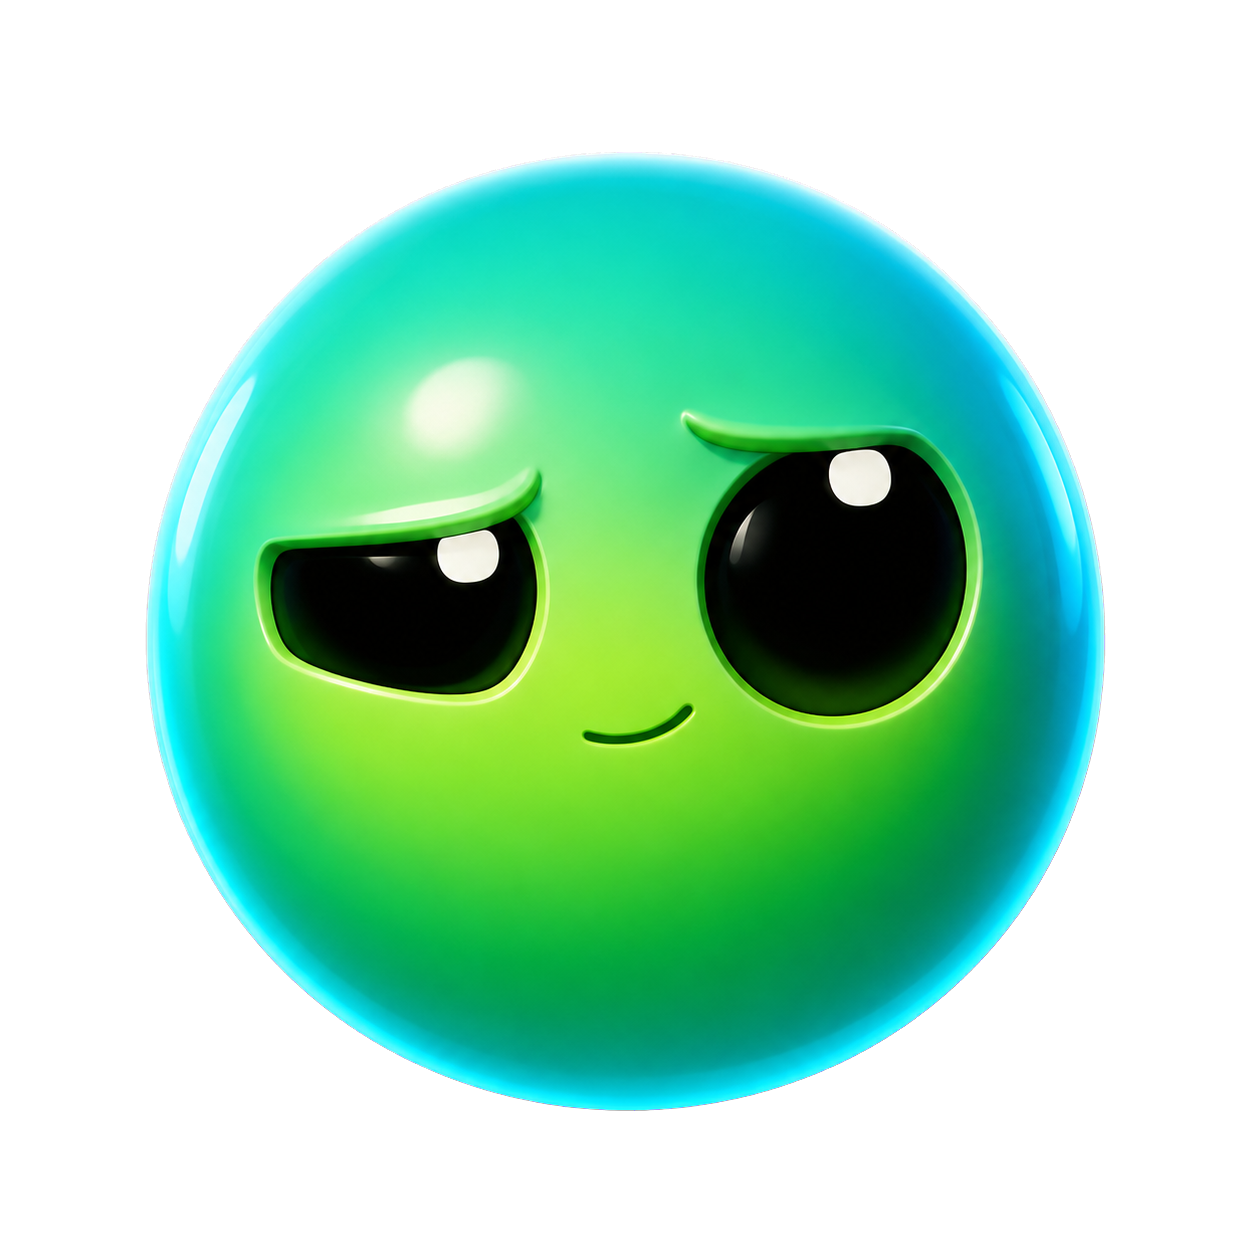
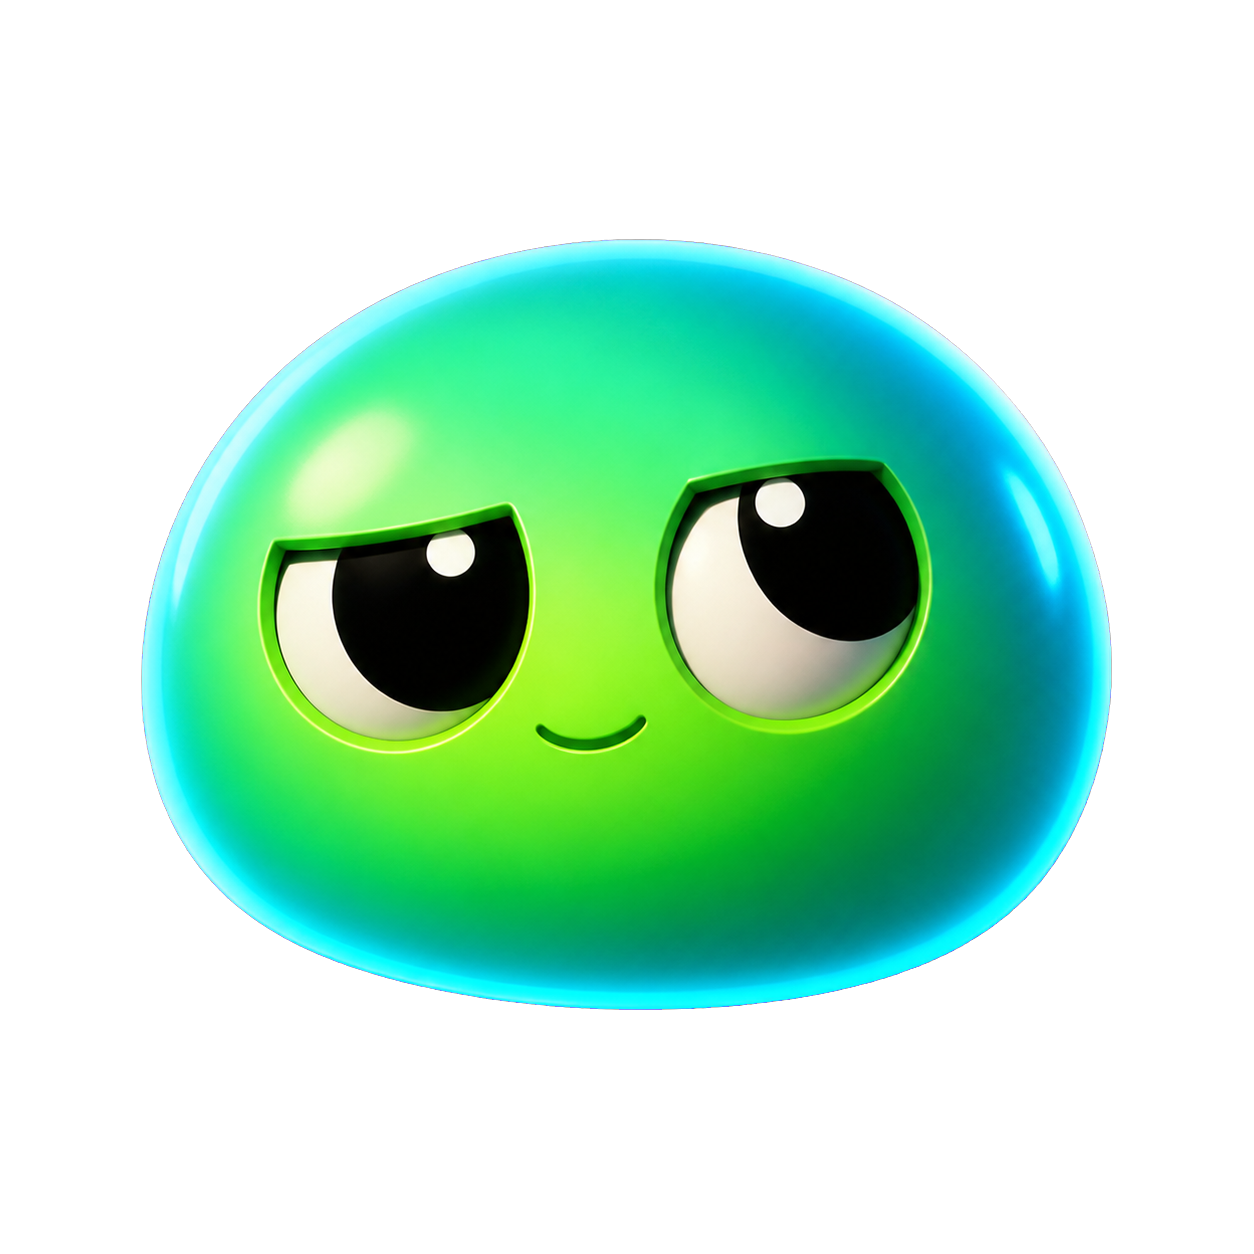
feat: release widget v0.2.3

diff --git a/src/renderer/styles.css b/src/renderer/styles.css
@@ -1,3 +1,8 @@
+@property --orb-ring-primary { syntax:"<color>"; inherits:true; initial-value:#49e7c6; }
+@property --orb-ring-secondary { syntax:"<color>"; inherits:true; initial-value:#8b79ff; }
+@property --orb-halo-primary { syntax:"<color>"; inherits:true; initial-value:rgba(73,231,198,.27); }
+@property --orb-halo-secondary { syntax:"<color>"; inherits:true; initial-value:rgba(139,121,255,.17); }
+
 :root {
   color-scheme: dark;
   font-family: Inter, "Segoe UI Variable", "Segoe UI", sans-serif;
@@ -13,6 +18,11 @@
   --danger: #ff738f;
   --control: 38px;
   --chat-glow-intensity: .82;
+  --orb-ring-primary:#49e7c6;
+  --orb-ring-secondary:#8b79ff;
+  --orb-halo-primary:rgba(73,231,198,.27);
+  --orb-halo-secondary:rgba(139,121,255,.17);
+  --orb-ring-opacity:.68;
 }
 
 * { box-sizing: border-box; }
@@ -56,7 +66,9 @@ button:not(.edge-mode):not(.orb-mode):active { transform:scale(.93); transition-
 
 .titlebar, .brand, .window-actions, .settings-head { display:flex; align-items:center; }
 .titlebar { min-height:44px; justify-content:space-between; gap:7px; }
-.brand { min-width:0; gap:10px; }
+.brand { min-width:0; gap:10px; cursor:grab; touch-action:none; user-select:none; -webkit-user-select:none; -webkit-user-drag:none; }
+.brand:active { cursor:grabbing; }
+.brand *, .brand-copy-button * { user-select:none; -webkit-user-select:none; -webkit-user-drag:none; }
 .avatar-button, .brand-copy-button { flex:none; margin:0; padding:0; border:0; background:transparent; color:inherit; cursor:pointer; }
 .avatar-button { border-radius:15px; }
 .brand-copy-button { min-width:0; display:flex; flex:1; flex-direction:column; align-items:flex-start; text-align:left; }
@@ -193,13 +205,13 @@ button:not(.edge-mode):not(.orb-mode):active { transform:scale(.93); transition-
 .mode-option.active { background:linear-gradient(135deg,rgba(73,231,198,.14),rgba(139,121,255,.15)); color:white; box-shadow:inset 0 1px rgba(255,255,255,.08); }
 
 .context-meter { position:relative; width:40px; height:40px; display:grid; place-items:center; }
-.context-meter svg { position:absolute; inset:2px; width:36px; height:36px; transform:rotate(-90deg); }
+.context-meter svg { position:absolute; top:50%; left:50%; width:36px; height:36px; transform:translate(-50%,-50%) rotate(-90deg); }
 .context-meter circle { fill:none; stroke-width:2.2; }
 .context-track { stroke:rgba(255,255,255,.09); }
 .context-arc { stroke:var(--mint); stroke-linecap:round; stroke-dasharray:97.39; transition:stroke-dashoffset .35s ease, stroke .25s ease; filter:drop-shadow(0 0 4px rgba(73,231,198,.55)); }
 .context-meter.high .context-arc { stroke:#ffca72; }
 .context-meter.critical .context-arc { stroke:var(--danger); }
-.context-meter span { position:relative; font-size:7px; font-weight:850; color:#d6dde7; }
+.context-meter span { position:absolute; inset:0; display:grid; place-items:center; padding:0; color:#d6dde7; font-size:7px; font-weight:850; font-variant-numeric:tabular-nums; line-height:1; text-align:center; }
 .command-menu { display:none; min-height:0; max-height:min(190px,36vh); flex:none; overflow:hidden; border:1px solid rgba(139,121,255,.27); border-radius:13px; background:rgba(13,17,27,.985); box-shadow:0 15px 38px rgba(0,0,0,.42),inset 0 1px rgba(255,255,255,.035); }
 .command-menu.open { display:flex; flex-direction:column; animation:command-menu-in .18s cubic-bezier(.22,1,.36,1); }
 .command-menu-head { min-height:34px; flex:none; display:flex; align-items:center; gap:7px; padding:7px 10px; border-bottom:1px solid rgba(255,255,255,.07); color:#8f9caf; }
@@ -384,11 +396,17 @@ button:not(.edge-mode):not(.orb-mode):active { transform:scale(.93); transition-
 .mode-orb .orb-mode, .mode-edge .edge-mode { touch-action:none; cursor:grab; }
 .mode-orb .orb-mode:active, .mode-edge .edge-mode:active { cursor:grabbing; }
 .orb-mode img, .orb-mode .orb-glow, .orb-mode .orb-count, .edge-mode > span { pointer-events:none; user-select:none; -webkit-user-drag:none; }
-.orb-avatar { position:relative; isolation:isolate; width:68px; height:68px; flex:none; display:grid; place-items:center; margin:30px; padding:0; border:0; border-radius:50%; background:radial-gradient(circle at 35% 25%,rgba(73,231,198,.25),rgba(11,14,22,.97) 64%); box-shadow:0 0 20px rgba(73,231,198,.27),0 0 28px rgba(139,121,255,.17),inset 0 0 15px rgba(73,231,198,.1); cursor:pointer; }
-.orb-avatar::before { content:""; position:absolute; z-index:0; inset:-4px; border-radius:50%; background:conic-gradient(from 20deg,rgba(73,231,198,.72),rgba(139,121,255,.38),rgba(73,231,198,.72)); filter:blur(9px); opacity:.46; animation:avatar-ring 3.4s linear infinite; }
+.orb-avatar { position:relative; isolation:isolate; width:68px; height:68px; flex:none; display:grid; place-items:center; margin:30px; padding:0; border:0; border-radius:50%; background:radial-gradient(circle at 35% 25%,color-mix(in srgb,var(--orb-ring-primary) 25%,transparent),rgba(11,14,22,.97) 64%); box-shadow:0 0 20px var(--orb-halo-primary),0 0 28px var(--orb-halo-secondary),inset 0 0 15px color-mix(in srgb,var(--orb-ring-primary) 10%,transparent); cursor:pointer; transition:--orb-ring-primary .58s ease,--orb-ring-secondary .58s ease,--orb-halo-primary .58s ease,--orb-halo-secondary .58s ease,box-shadow .58s ease; }
+.orb-avatar::before { content:""; position:absolute; z-index:0; inset:-4px; border-radius:50%; background:conic-gradient(from 20deg,color-mix(in srgb,var(--orb-ring-primary) 72%,transparent),color-mix(in srgb,var(--orb-ring-secondary) 38%,transparent),color-mix(in srgb,var(--orb-ring-primary) 72%,transparent)); filter:blur(9px); opacity:calc(var(--orb-ring-opacity) * .56); animation:avatar-ring 3.4s linear infinite; transition:--orb-ring-primary .58s ease,--orb-ring-secondary .58s ease,opacity .58s ease; }
 .orb-avatar img { position:relative; z-index:3; width:52px; height:52px; object-fit:contain; filter:drop-shadow(0 7px 10px rgba(0,0,0,.52)); animation:avatar-breathe 3.2s ease-in-out infinite; }
-.orb-glow { position:absolute; z-index:2; inset:2px; border-radius:50%; background:conic-gradient(from 0deg,var(--mint),var(--violet),var(--mint)); box-shadow:0 0 9px rgba(73,231,198,.38); opacity:.82; animation:avatar-ring 2s linear infinite; }
+.orb-glow { position:absolute; z-index:2; inset:2px; border-radius:50%; background:conic-gradient(from 0deg,var(--orb-ring-primary),var(--orb-ring-secondary),var(--orb-ring-primary)); box-shadow:0 0 9px var(--orb-halo-primary); opacity:var(--orb-ring-opacity); animation:avatar-ring 2s linear infinite; transition:--orb-ring-primary .58s ease,--orb-ring-secondary .58s ease,--orb-halo-primary .58s ease,box-shadow .58s ease,opacity .58s ease; }
 .orb-glow::after { content:""; position:absolute; inset:2px; border-radius:50%; background:#0b0e16; box-shadow:inset 0 0 14px rgba(139,121,255,.12); }
+.mode-orb.activity-thinking { --orb-ring-primary:#9b8cff; --orb-ring-secondary:#5274ff; --orb-halo-primary:rgba(139,121,255,.36); --orb-halo-secondary:rgba(82,116,255,.22); --orb-ring-opacity:.82; }
+.mode-orb.activity-writing { --orb-ring-primary:#49e7c6; --orb-ring-secondary:#48c1ff; --orb-halo-primary:rgba(73,231,198,.4); --orb-halo-secondary:rgba(72,193,255,.22); --orb-ring-opacity:.88; }
+.mode-orb.activity-tool { --orb-ring-primary:#ffbd69; --orb-ring-secondary:#9a7fff; --orb-halo-primary:rgba(255,189,105,.38); --orb-halo-secondary:rgba(139,121,255,.25); --orb-ring-opacity:.9; }
+.mode-orb.state-waiting { --orb-ring-primary:#74d8ff; --orb-ring-secondary:#8b79ff; --orb-halo-primary:rgba(116,216,255,.3); --orb-halo-secondary:rgba(139,121,255,.2); --orb-ring-opacity:.72; }
+.mode-orb.state-error { --orb-ring-primary:#ff738f; --orb-ring-secondary:#ff4f78; --orb-halo-primary:rgba(255,115,143,.4); --orb-halo-secondary:rgba(255,79,120,.22); --orb-ring-opacity:.88; }
+.mode-orb.state-done { --orb-ring-primary:#79f0b7; --orb-ring-secondary:#49e7c6; --orb-halo-primary:rgba(121,240,183,.34); --orb-halo-secondary:rgba(73,231,198,.18); --orb-ring-opacity:.78; }
 .orb-status { min-width:0; width:0; height:64px; display:flex; flex-direction:column; justify-content:center; overflow:hidden; padding:0; border:0 solid rgba(255,255,255,.12); border-radius:17px; background:rgba(12,16,24,.97); color:inherit; opacity:0; transform:translateX(12px) scale(.95); transition:width .22s cubic-bezier(.22,1,.36,1),padding .22s ease,opacity .16s ease,transform .22s cubic-bezier(.22,1,.36,1); cursor:pointer; }
 .orb-status:disabled { cursor:default; }
 .orb-has-status .orb-status { width:196px; padding:0 12px; border-width:1px; opacity:1; transform:none; }
@@ -403,9 +421,11 @@ button:not(.edge-mode):not(.orb-mode):active { transform:scale(.93); transition-
 .orb-count { position:absolute; z-index:3; top:4px; right:3px; min-width:20px; height:20px; display:none; place-items:center; padding:0 5px; border:2px solid #0b0e16; border-radius:11px; background:var(--mint); color:#06100e; font-size:9px; font-weight:900; }
 .orb-count.visible { display:grid; animation:avatar-pop .55s cubic-bezier(.2,.9,.2,1); }
 .mode-edge .edge-mode { position:relative; width:100%; height:100%; display:block; padding:0; animation:edge-enter .3s cubic-bezier(.2,.9,.22,1.12); }
-.edge-line { position:absolute; top:50%; right:0; width:8px; height:88px; border-radius:99px 0 0 99px; background:linear-gradient(180deg,var(--mint),var(--violet),var(--mint)); background-size:100% 220%; box-shadow:-22px 0 42px rgba(73,231,198,.16),-4px 0 11px rgba(139,121,255,.45); transform:translateY(-50%); animation:edge-shimmer 2.1s ease-in-out infinite; }
+.edge-line { position:absolute; top:50%; right:0; width:8px; height:88px; border-radius:99px 0 0 99px; background:linear-gradient(180deg,var(--mint),var(--violet),var(--mint)); background-size:100% 220%; box-shadow:-22px 0 42px rgba(73,231,198,.16),-4px 0 11px rgba(139,121,255,.45); transform:translateY(-50%); transition:transform .2s cubic-bezier(.2,.9,.22,1.15),box-shadow .2s ease,filter .2s ease; animation:edge-shimmer 2.1s ease-in-out infinite; }
 .edge-line::before { content:none; }
 .side-left .edge-line { right:auto; left:0; border-radius:0 99px 99px 0; box-shadow:22px 0 42px rgba(73,231,198,.16),4px 0 11px rgba(139,121,255,.45); }
+.edge-hit-active .edge-line { transform:translateY(-50%) translateX(-4px) scaleY(1.035); box-shadow:-25px 0 46px rgba(73,231,198,.2),-5px 0 14px rgba(139,121,255,.58); filter:brightness(1.12); }
+.side-left .edge-hit-active .edge-line { transform:translateY(-50%) translateX(4px) scaleY(1.035); box-shadow:25px 0 46px rgba(73,231,198,.2),5px 0 14px rgba(139,121,255,.58); }
 .side-left .orb-mode { justify-content:flex-start; }
 .side-left .orb-avatar { order:-3; }
 .side-left .orb-history-button { order:-2; }

diff --git a/src/renderer/app.js b/src/renderer/app.js
@@ -226,6 +226,7 @@ function applyWindowMode(mode) {
   state.windowMode = mode;
   document.body.classList.remove("mode-full", "mode-orb", "mode-edge");
   document.body.classList.add(`mode-${mode}`);
+  if (mode !== "edge") window.widget.setEdgePointerActive(true);
   if (mode === "full") {
     state.unread = 0;
     renderNotifications();
@@ -247,6 +248,31 @@ let suppressCompactClick = false;
 let fullDrag = null;
 let suppressProjectClick = false;
 let suppressProjectClickTimer = null;
+let edgePointerActive = false;
+const EDGE_HIT_PADDING = 5;
+
+function setEdgePointerActive(active) {
+  const next = state.windowMode === "edge" && Boolean(active);
+  if (edgePointerActive === next) return;
+  edgePointerActive = next;
+  $("#edgeMode").classList.toggle("edge-hit-active", next);
+  window.widget.setEdgePointerActive(next);
+}
+
+function updateEdgePointerHit(event) {
+  if (state.windowMode !== "edge") return;
+  if (compactDrag) {
+    setEdgePointerActive(true);
+    return;
+  }
+  const line = $("#edgeMode .edge-line");
+  const rect = line.getBoundingClientRect();
+  const hit = event.clientX >= rect.left - EDGE_HIT_PADDING
+    && event.clientX <= rect.right + EDGE_HIT_PADDING
+    && event.clientY >= rect.top - EDGE_HIT_PADDING
+    && event.clientY <= rect.bottom + EDGE_HIT_PADDING;
+  setEdgePointerActive(hit);
+}
 
 function suppressBrandClickAfterDrag() {
   suppressProjectClick = true;
@@ -316,11 +342,12 @@ async function endCompactDrag(event) {
   const moved = compactDrag.moved;
   compactDrag.target.releasePointerCapture?.(event.pointerId);
   compactDrag = null;
+  const result = await window.widget.endCompactDrag().catch(() => null);
   if (!moved) return;
   event.preventDefault();
   suppressCompactClick = true;
-  const result = await window.widget.endCompactDrag().catch(() => null);
   if (result?.side) applyCompactSide(result.side);
+  if (state.windowMode === "edge") setEdgePointerActive(false);
   setTimeout(() => { suppressCompactClick = false; }, 0);
 }
 
@@ -1586,7 +1613,14 @@ for (const target of [$("#orbMode"), $("#edgeMode")]) {
   target.addEventListener("pointerup", endCompactDrag);
   target.addEventListener("pointercancel", endCompactDrag);
 }
-for (const target of [$("#avatarButton"), $("#projectLink")]) {
+document.addEventListener("mousemove", updateEdgePointerHit, true);
+document.addEventListener("mouseleave", () => {
+  if (!compactDrag) setEdgePointerActive(false);
+});
+window.addEventListener("blur", () => {
+  if (!compactDrag) setEdgePointerActive(false);
+});
+for (const target of [$(".brand")]) {
   target.addEventListener("pointerdown", beginFullDrag);
   target.addEventListener("pointermove", moveFullDrag);
   target.addEventListener("pointerup", endFullDrag);
@@ -1693,7 +1727,9 @@ if (!screenshotFixture) {
 
 if (screenshotFixture) {
   setTimeout(async () => {
-    if (screenshotFixture === "overview") {
+    if (screenshotFixture === "edge-hover") {
+      $("#edgeMode").classList.add("edge-hit-active");
+    } else if (screenshotFixture === "overview") {
       setTab("agents");
       state.dashboard = {
         harness: true,

diff --git a/src/renderer/index.html b/src/renderer/index.html
@@ -37,7 +37,7 @@
     </svg>
     <main class="widget-shell">
       <header class="titlebar drag-region">
-        <div class="brand">
+        <div class="brand no-drag">
           <button id="avatarButton" class="avatar-button" type="button" title="Collapse to avatar" aria-label="Collapse to avatar">
             <span id="avatarShell" class="avatar-shell idle">
               <img data-avatar src="assets/neoxider-github.png" alt="NeoXider agent" draggable="false" />

diff --git a/README.md b/README.md
@@ -10,7 +10,7 @@
   <a href="https://github.com/NeoXider/deepseek-harness-widget/actions/workflows/ci.yml"><img alt="CI" src="https://github.com/NeoXider/deepseek-harness-widget/actions/workflows/ci.yml/badge.svg" /></a>
   <img alt="Windows" src="https://img.shields.io/badge/Windows-10%20%7C%2011-49e7c6" />
   <img alt="Electron" src="https://img.shields.io/badge/Electron-44-8b79ff" />
-  <img alt="Source version" src="https://img.shields.io/badge/source-v0.2.2-8b79ff" />
+  <img alt="Source version" src="https://img.shields.io/badge/source-v0.2.3-8b79ff" />
   <a href="LICENSE"><img alt="MIT License" src="https://img.shields.io/badge/license-MIT-blue.svg" /></a>
 </p>
 
@@ -96,7 +96,10 @@ The NeoXider avatar reacts to agent state: breathing while idle, typing while wo
 - **Focus Chat** — one compact composer button hides all chrome and setup surfaces, leaving only messages, optional attachment previews, the input, context and actions; tap it again to restore everything.
 - **Three window states** — full deck, notification avatar, or an iridescent edge handle.
 - **Draggable compact modes** — drag either the avatar or the edge handle anywhere vertically or across displays; release to magnetize it to the nearest screen edge.
-- **Click-or-drag brand** — click the full-size avatar to collapse, click the NeoXider title to open the repository, or drag either one to move the full widget without triggering its click action.
+- **Click-through edge glow** — only the visible 8 px edge line (plus a small 5 px comfort margin) accepts hover, restore, and drag input; the wider transparent glow area no longer blocks clicks in apps underneath. The line gently lifts inward on hover.
+- **Smooth pet status glow** — the collapsed avatar now eases between idle, thinking, writing, tool, waiting, error, and done palettes instead of switching its ring abruptly.
+- **Classic NeoXider slimes** — idle, working, waiting, error, and done now use the original soft-bottom mascot shapes from NeoXider Video Studio instead of the round variants.
+- **Click-or-drag brand** — click the full-size avatar to collapse, click the NeoXider title to open the repository, or drag anywhere across the brand area to move the full widget. Brand text is non-selectable, so a drag cannot turn into a text selection.
 - **Exact-session pet reply** — collapsed pet mode keeps one useful reply button instead of create/command/attachment clutter; it opens the agent and session that produced the reply.
 - **Session-aware notifications** — a completed reply slides out for about 2.7 seconds with its session name and answer preview; clicking it restores that exact session. The edge handle still bounces when work finishes.
 - **Three window layers** — choose Normal for an ordinary desktop window, Above for the default always-visible widget, or Game for the strongest overlay level used over fullscreen games and similar apps.
@@ -186,7 +189,7 @@ npm run tool-smoke
 npm run build
 ```
 
-The portable executable is written to `release/DeepSeek-Harness-Widget-0.2.2-portable.exe`.
+The portable executable is written to `release/DeepSeek-Harness-Widget-0.2.3-portable.exe`.
 
 The test suite verifies the official Harness event shapes, ephemeral reasoning, safe Markdown, tool grouping/correlation, single-instance behavior hooks, compact-window geometry, and UI contracts. `test:ui` launches Electron in deterministic desktop and minimum-size scenarios and rejects clipped or overflowing layouts. `feature-smoke` verifies workspace-aware session creation, live command discovery/execution and reasoning-capable model discovery. `chat-smoke` creates a real Harness session and expects an `OK` reply from the configured LM Studio route. `tool-smoke` additionally requires that model to execute a real Harness tool and checks the widget's correlated tool card.
 
